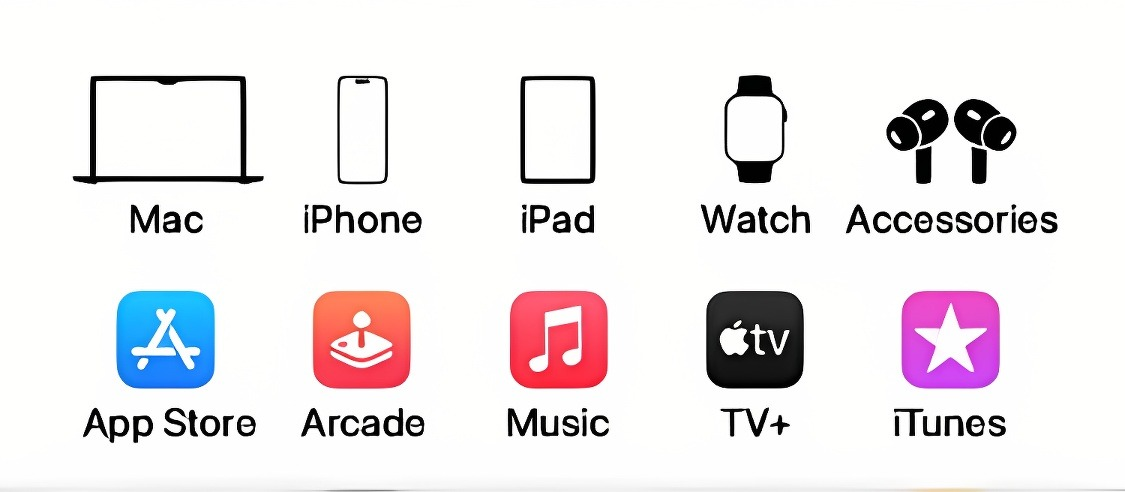
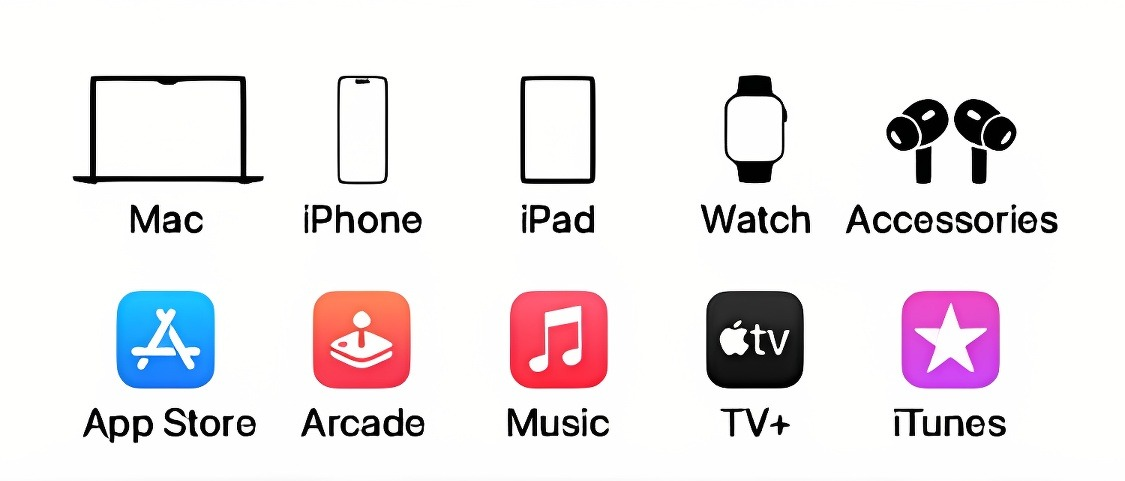
vcl

diff --git a/index.html b/index.html
@@ -203,6 +203,13 @@
             image-rendering: -webkit-optimize-contrast;
             /* Làm nét ảnh */
         }
+        .assets-img-2 {
+            width: 100%;
+            height: auto;
+            margin-bottom: 0px;
+            image-rendering: -webkit-optimize-contrast;
+            /* Làm nét ảnh */
+        }
 
         .share-footer {
             width: 100%;
@@ -251,6 +258,8 @@
         <div class="tagline">One gift card. Everything Apple.</div>
 
         <img src="image/c3.png" class="assets-img">
+        <img src="image/share.png" class="assets-img-2">
+
 
         <!-- <div class="share-footer">
             <svg class="share-icon" viewBox="0 0 24 24" fill="none" stroke="#0071e3" stroke-width="2"
